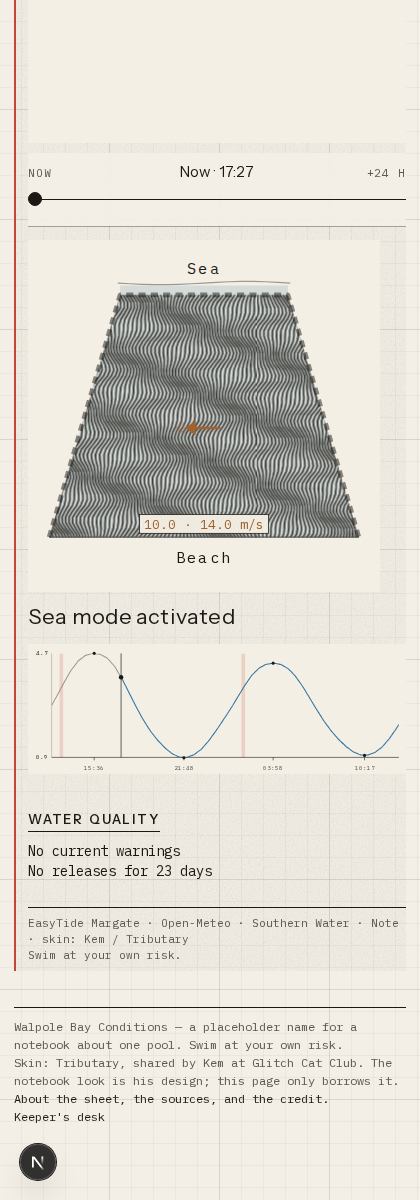
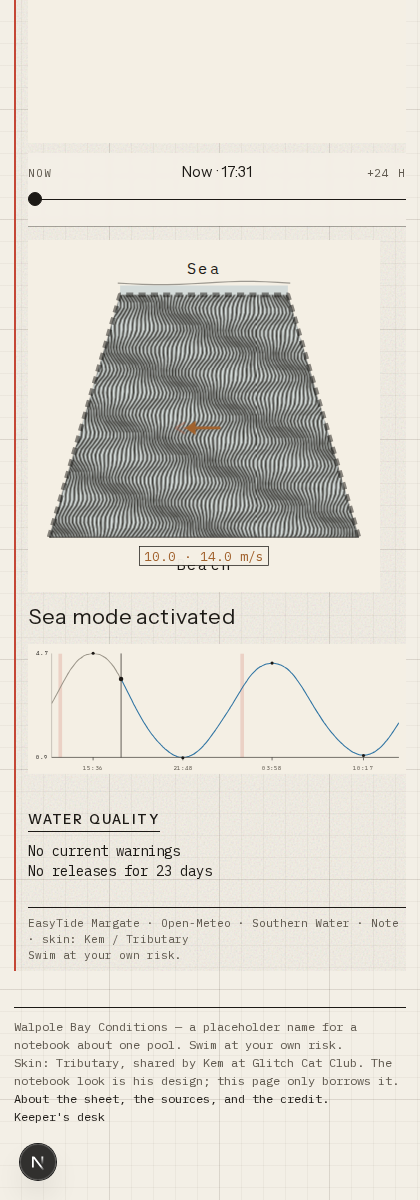
Anchor wind speed box below pool polygon on beach side
Use point-in-polygon checks and a fixed south placement so the label
never falls back inside the U when vertical padding is tight. Nudge the
Beach caption down to keep clear hierarchy. Refresh QA screenshots.

diff --git a/components/plan-view.tsx b/components/plan-view.tsx
@@ -44,54 +44,60 @@ function poolInteriorPath(corners: { nw: PlanPoint; ne: PlanPoint; se: PlanPoint
   return `${pathOf([nw, ne, se, sw])} Z`;
 }
 
-type SpeedLabelPlacement = { x: number; y: number; anchor: "start" | "end" | "middle"; width: number };
+type SpeedLabelPlacement = { x: number; y: number; anchor: "middle"; width: number };
 
-function speedLabelOutside(
+const POOL_STROKE_CLEAR = 8;
+function pointInPlanPool(point: PlanPoint, poly: PlanPoint[]): boolean {
+  let inside = false;
+  for (let i = 0, j = poly.length - 1; i < poly.length; j = i++) {
+    const xi = poly[i].x;
+    const yi = poly[i].y;
+    const xj = poly[j].x;
+    const yj = poly[j].y;
+    const intersect =
+      yi > point.y !== yj > point.y && point.x < ((xj - xi) * (point.y - yi)) / (yj - yi + 1e-12) + xi;
+    if (intersect) inside = !inside;
+  }
+  return inside;
+}
+
+function speedLabelRect(box: SpeedLabelPlacement): { left: number; right: number; top: number; bottom: number } {
+  const left = box.x - box.width / 2;
+  return { left, right: left + box.width, top: box.y - 12, bottom: box.y + 4 };
+}
+
+function speedLabelOutsidePool(
   bounds: { nw: PlanPoint; ne: PlanPoint; se: PlanPoint; sw: PlanPoint },
-  mid: PlanPoint,
   text: string,
 ): SpeedLabelPlacement {
-  const gap = 10;
   const width = Math.max(58, text.length * 6.4 + 14);
-  const minX = Math.min(bounds.nw.x, bounds.sw.x);
-  const maxX = Math.max(bounds.ne.x, bounds.se.x);
-  const minY = Math.min(bounds.nw.y, bounds.ne.y);
-  const maxY = Math.max(bounds.se.y, bounds.sw.y);
-  const marginL = PAD.l;
-  const marginR = VIEW_W - PAD.r;
+  const poly = [bounds.nw, bounds.ne, bounds.se, bounds.sw];
+  const southY = Math.max(bounds.sw.y, bounds.se.y);
+  const box: SpeedLabelPlacement = { x: VIEW_W / 2, y: southY + POOL_STROKE_CLEAR + 12, anchor: "middle", width };
 
-  const labelSpan = (box: SpeedLabelPlacement): { left: number; right: number; top: number; bottom: number } => {
-    const left =
-      box.anchor === "start" ? box.x - 6 : box.anchor === "end" ? box.x - box.width + 6 : box.x - box.width / 2;
-    return { left, right: left + box.width, top: box.y - 12, bottom: box.y + 4 };
+  const clear = (rect: { left: number; right: number; top: number; bottom: number }): boolean => {
+    if (rect.top < southY + POOL_STROKE_CLEAR) return false;
+    const corners: PlanPoint[] = [
+      { x: rect.left, y: rect.top },
+      { x: rect.right, y: rect.top },
+      { x: rect.left, y: rect.bottom },
+      { x: rect.right, y: rect.bottom },
+      { x: (rect.left + rect.right) / 2, y: (rect.top + rect.bottom) / 2 },
+    ];
+    return corners.every((p) => !pointInPlanPool(p, poly));
   };
 
-  const clearOfPool = (span: { left: number; right: number; top: number; bottom: number }): boolean => {
-    const poolPad = gap - 2;
-    const overlaps =
-      span.right > minX - poolPad &&
-      span.left < maxX + poolPad &&
-      span.bottom > minY - poolPad &&
-      span.top < maxY + poolPad;
-    return !overlaps;
-  };
-
-  const inView = (span: { left: number; right: number; top: number; bottom: number }): boolean =>
-    span.left >= marginL && span.right <= marginR && span.top >= PAD.t && span.bottom <= VIEW_H - PAD.b;
-
-  const candidates: SpeedLabelPlacement[] = [
-    { x: maxX + gap, y: mid.y + 4, anchor: "start", width },
-    { x: minX - gap, y: mid.y + 4, anchor: "end", width },
-    { x: VIEW_W / 2, y: maxY + gap + 12, anchor: "middle", width },
-    { x: VIEW_W / 2, y: minY - gap - 4, anchor: "middle", width },
-  ];
-
-  for (const box of candidates) {
-    const span = labelSpan(box);
-    if (inView(span) && clearOfPool(span)) return box;
+  let rect = speedLabelRect(box);
+  while (!clear(rect) && box.y < VIEW_H - 6) {
+    box.y += 2;
+    rect = speedLabelRect(box);
   }
+  return box;
+}
 
-  return { x: VIEW_W / 2, y: Math.min(maxY + gap + 12, VIEW_H - PAD.b - 10), anchor: "middle", width };
+function planBeachLabelY(bounds: { sw: PlanPoint; se: PlanPoint }): number {
+  const southY = Math.max(bounds.sw.y, bounds.se.y);
+  return southY + 28;
 }
 
 function WindGlyph({
@@ -116,9 +122,8 @@ function WindGlyph({
   const showGust = gust > mean + 0.5;
   const speedLabel = gustMs != null && gustMs > avgMs + 0.05 ? `${avgMs.toFixed(1)} · ${gustMs.toFixed(1)}` : avgMs.toFixed(1);
   const caption = `${speedLabel} m/s`;
-  const box = speedLabelOutside(bounds, at, caption);
-  const rectX =
-    box.anchor === "start" ? box.x - 6 : box.anchor === "end" ? box.x - box.width + 6 : box.x - box.width / 2;
+  const box = speedLabelOutsidePool(bounds, caption);
+  const rectX = box.x - box.width / 2;
   return (
     <>
       <g
@@ -340,7 +345,15 @@ function PlanDrawing({
         opacity={submerged ? 0.5 : 1}
       />
       <path d={`M ${label(sw)} L ${label(se)}`} fill="none" stroke={INK} strokeWidth="1" opacity="0.65" />
-      <text x={VIEW_W / 2} y={sw.y + 22} textAnchor="middle" fill={INK} fontSize="13" fontFamily={FONT} letterSpacing="0.14em">
+      <text
+        x={VIEW_W / 2}
+        y={planBeachLabelY({ sw, se })}
+        textAnchor="middle"
+        fill={INK}
+        fontSize="13"
+        fontFamily={FONT}
+        letterSpacing="0.14em"
+      >
         Beach
       </text>
       {travel != null && avgMs != null ? (
